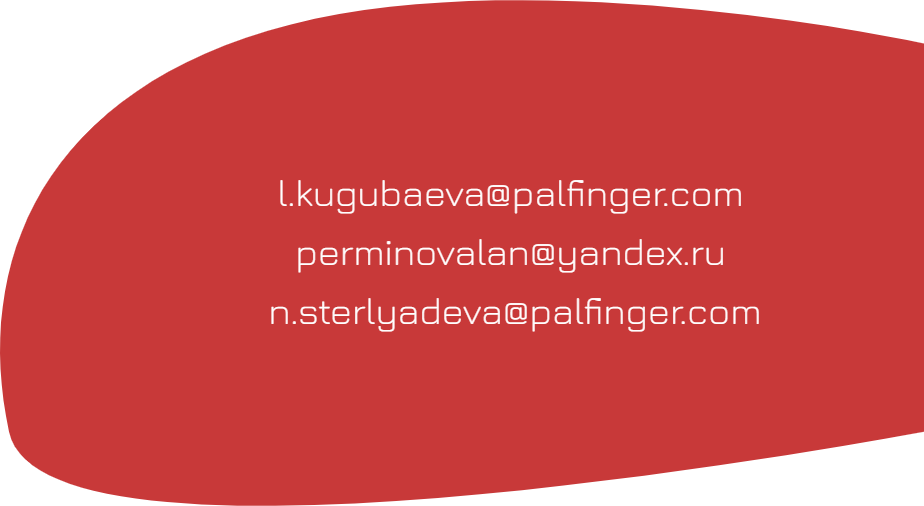
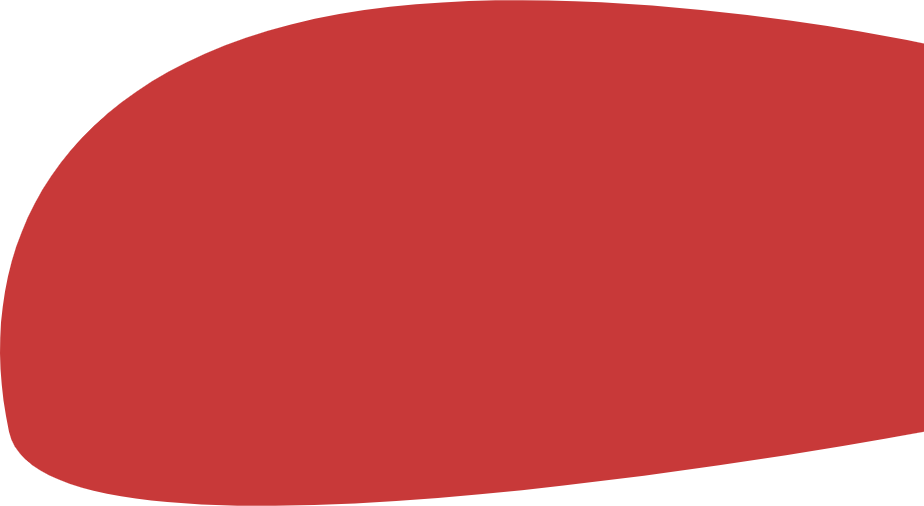
Обновление 0.25

Changed region(s): [[0.303, 0.3557, 0.8182, 0.4447], [0.303, 0.5929, 0.8182, 0.6522], [0.303, 0.4743, 0.7879, 0.5336]]

diff --git a/style.css b/style.css
@@ -212,8 +212,9 @@ width: 40vw;
 z-index: 1;
 }
 
-#third-art{
 
+#third-art{
+    position: relative;
     display: grid;
     grid-template-columns: auto auto auto;
     grid-template-rows: auto auto;
@@ -225,32 +226,97 @@ z-index: 1;
     grid-row: 1/2;
     z-index: 5;
 }
-#third-art > #yellow-img{
-    display: flex;
-    justify-self: left;
-position: relative;
-    grid-column: 1/3;
-    grid-row: 2/3;
-    width: 46vw;
-}
-#third-art > #red-img{
-    display: flex;
-    justify-self: right;
-position: relative;
-    grid-column: 2/4;
-    grid-row: 2/3;
-    width: 46vw;
-    z-index: 5;
-}
+
 #third-art > #img-phone{
     grid-column: 3/4;
     grid-row: 1/2;
     position: absolute;
-    left: 60vw;
-    z-index: 3;
+    left: -5vw;
+    z-index: -1;
     width: 15vw;
 }
+.contacts-container {
+    display: flex;
+    justify-content: space-around;
+    flex-wrap: wrap;
+    gap: 2vw;
+    width: 100%;
+}
 
+.yellow-contact, .red-contact {
+    width: 100%;
+    position: relative;
+    margin: 0 auto;
+}
+.yellow-contact{
+
+    grid-column: 1/3;
+    grid-row: 2/3;
+}
+.red-contact{
+    grid-column: 2/4;
+    grid-row: 2/3;
+}
+
+.yellow-contact img, .red-contact img {
+    width: 100%;
+    height: auto;
+    display: block;
+}
+.yellow-contact img{
+    display: flex;
+    justify-self: left;
+    width: 50vw;
+}
+.red-contact img{
+    display: flex;
+    justify-self: right;
+    width: 50vw;
+}
+.contact-numbers {
+    position: absolute;
+    top: 15vw;
+    left: 18vw;
+    transform: translate(-50%, -50%);
+    width: 90%;
+    text-align: center;
+}
+.contact-emails {
+    position: absolute;
+    top: 15vw;
+    left: 37vw;
+    transform: translate(-50%, -50%);
+    width: 90%;
+    text-align: center;
+}
+.contact-numbers p a{
+    font-family: "Jura", sans-serif;
+    font-size: 2vw;
+}
+.contact-emails p a{
+    color: white;
+    font-family: "Jura", sans-serif;
+    font-size: 2vw;
+}
+
+@media (max-width: 900px) {
+    .yellow-contact, .red-contact {
+    }
+    .contact-numbers p, .contact-emails p {
+        font-size: clamp(12px, 2vw, 18px);
+    }
+
+}
+
+@media (max-width: 600px) {
+    .contacts-container {
+        flex-direction: column;
+        align-items: center;
+    }
+    .contact-numbers p, .contact-emails p {
+        font-size: clamp(14px, 4vw, 18px);
+    }
+}
 
 
 #fourth-art{
@@ -334,8 +400,8 @@ position: relative;
         grid-column: 3/4;
         grid-row: 1/2;
         position: absolute;
-        left: 50vw;
-        z-index: 3;
+
+        z-index:-1;
         width: 15vw;
     }
 

diff --git a/index.html b/index.html
@@ -64,12 +64,25 @@
     </article>
 
     <article id="third-art">
-    <h1>С нами можно связаться:</h1>
-<img id="yellow-img" src="yellow-img.png">
-        <img id="red-img" src="red-img.png">
+        <h1>С нами можно связаться:</h1>
+        <div class="yellow-contact">
+            <img id="yellow-img" src="yellow-img.png">
+            <div class="contact-numbers">
+                <p><a href=»tel:+7347836-24-2″>+7 347 836-24-20</a></p>
+                <p><a href=»tel:+7963909-66-69″>+7 963 909-66-69</a></p>
+                <p><a href=»+7347836-25-46″>+7 347 836-25-46</a></p>
+            </div>
+        </div>
+        <div class="red-contact">
+            <img id="red-img" src="red-img.png">
+            <div class="contact-emails">
+                <p><a href="mailto:l.kugubaeva@palfinger.com">l.kugubaeva@palfinger.com</a></p>
+                <p><a href="mailto:perminovalan@yandex.ru">perminovalan@yandex.ru</a></p>
+                <p><a href="mailto:n.sterlyadeva@palfinger.com">n.sterlyadeva@palfinger.com</a></p>
+            </div>
+        </div>
         <img id="img-phone" src="phone.png">
     </article>
-</section>
 
 <script src="script.js"></script>
 </body>
